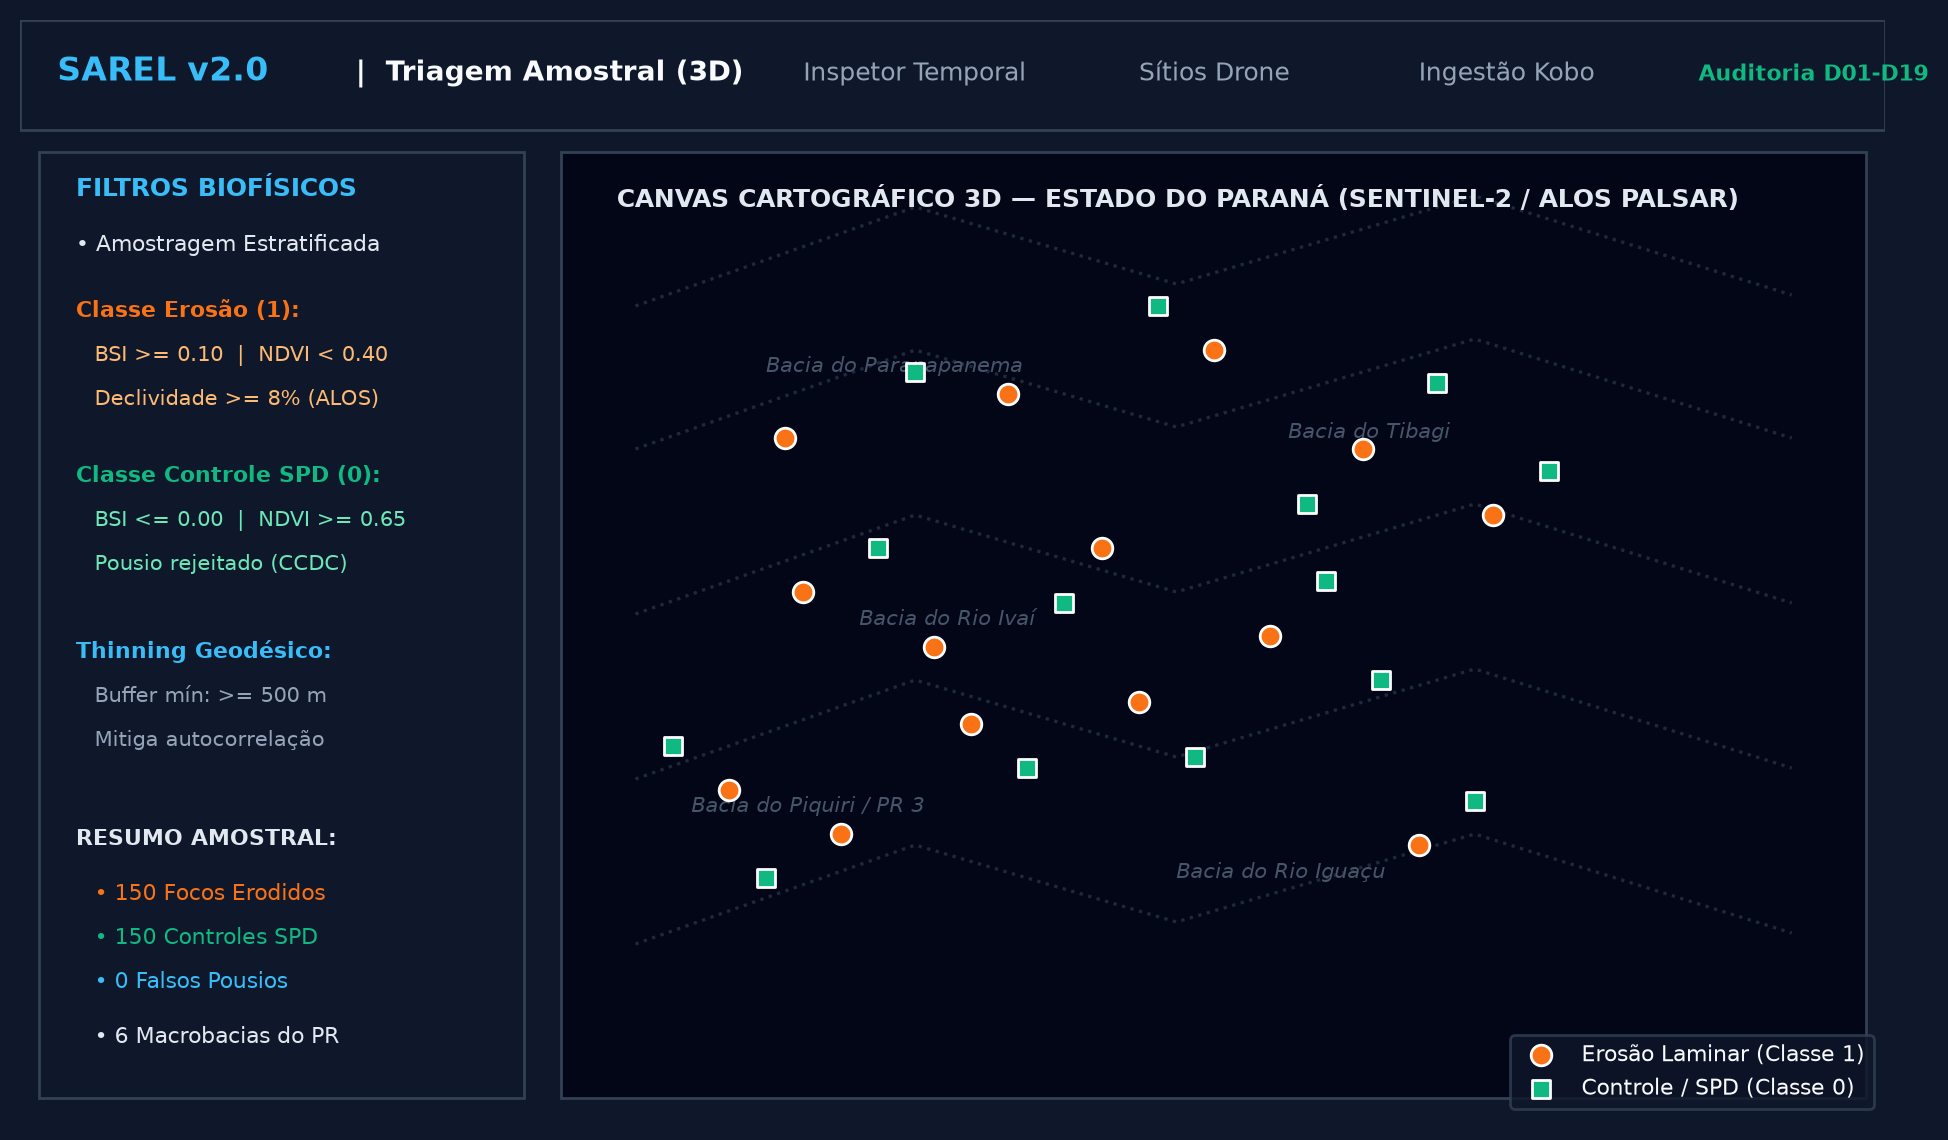
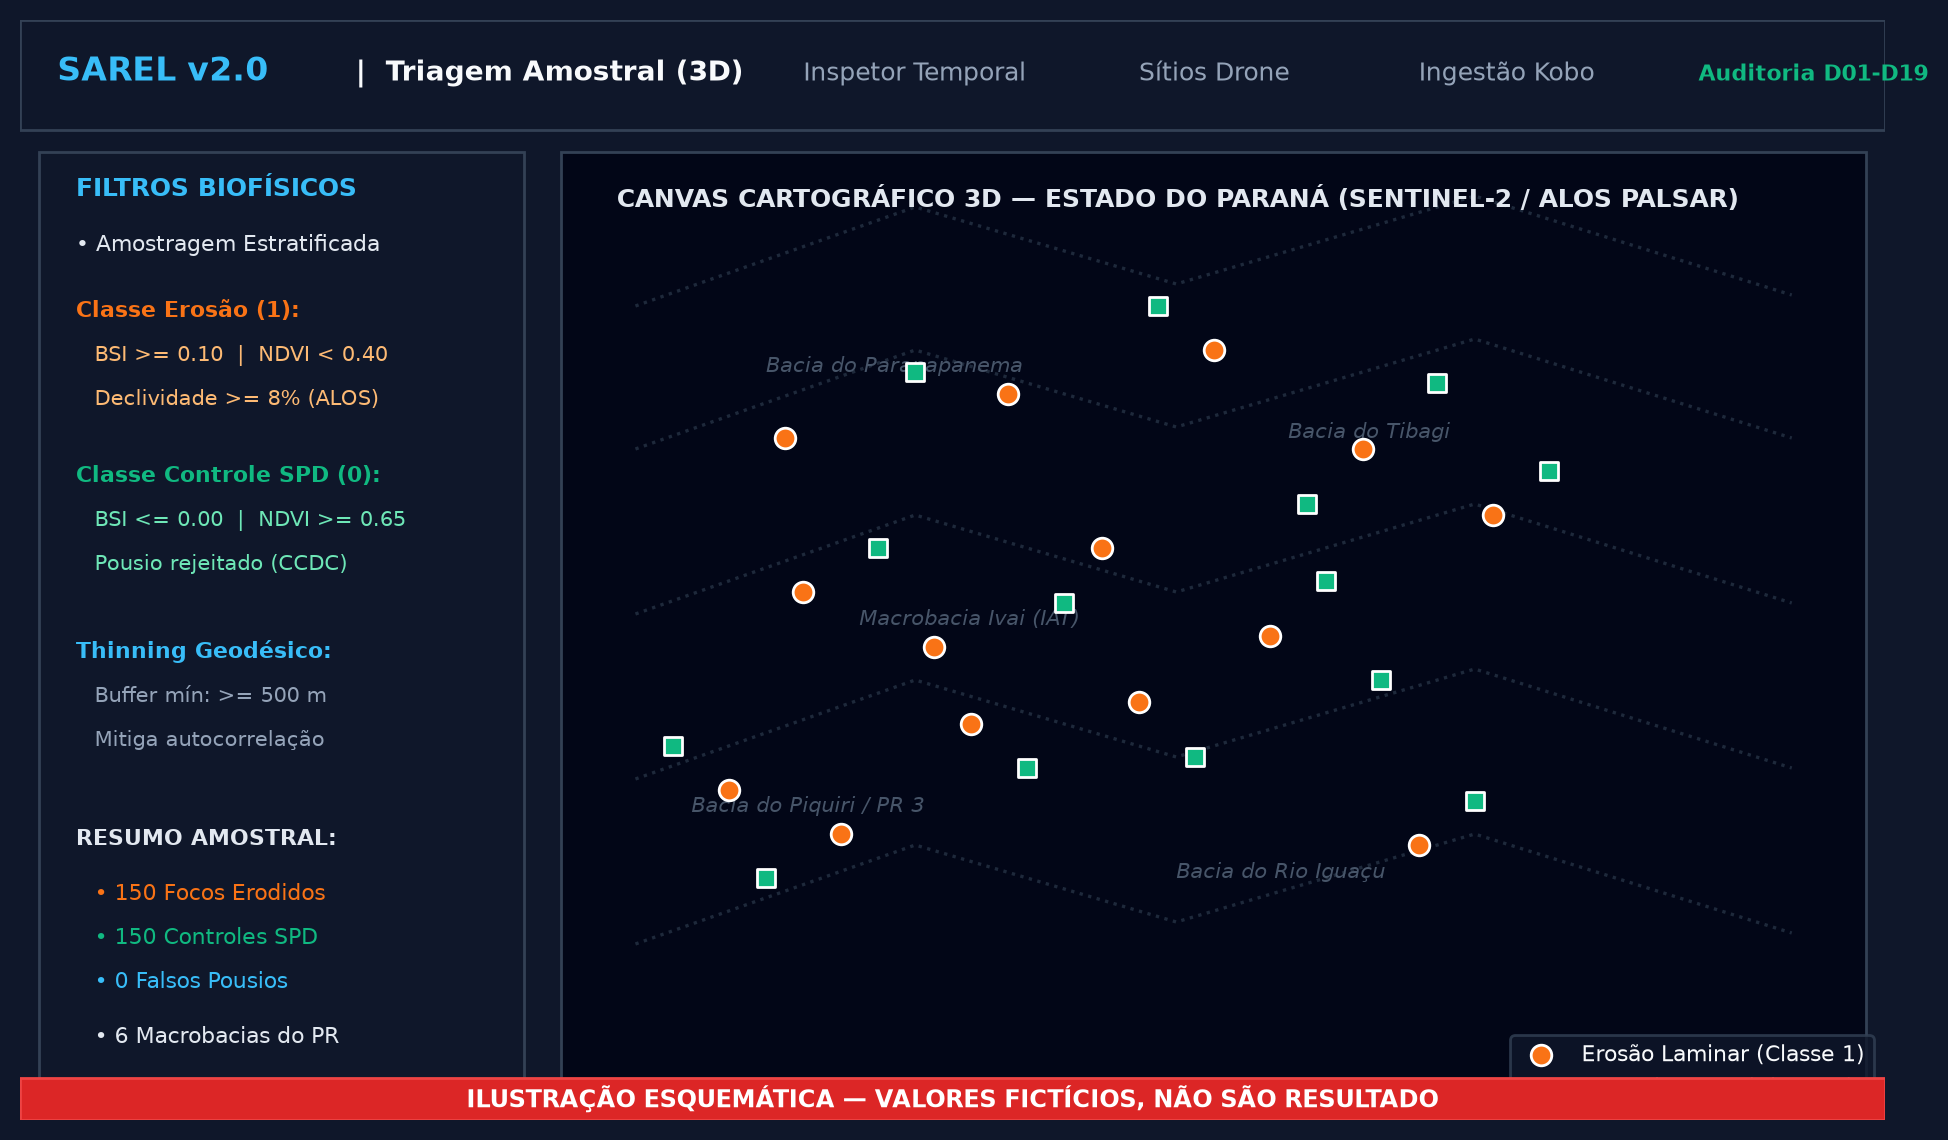
C17: selo de ilustracao ficticia nas 5 figuras do manual (PNG regerados)

Changed region(s): [[0.0, 0.9211, 0.9856, 0.9825], [0.4312, 0.5219, 0.5544, 0.5526]]

diff --git a/scripts/gerar_manual_pdf.py b/scripts/gerar_manual_pdf.py
@@ -64,6 +64,24 @@ plt.rcParams['font.sans-serif'] = 'DejaVu Sans'
 plt.rcParams['font.family'] = 'sans-serif'
 plt.rcParams['figure.dpi'] = 200
 
+TEXTO_FAIXA_FICTICIA = "ILUSTRAÇÃO ESQUEMÁTICA — VALORES FICTÍCIOS, NÃO SÃO RESULTADO"
+
+
+def adicionar_faixa_esquematica(ax):
+    """Insere faixa visível conspícua indicando ilustração esquemática com valores fictícios."""
+    faixa = patches.Rectangle((0, 0), 100, 3.8, facecolor='#DC2626', edgecolor='#EF4444', lw=1, zorder=100)
+    ax.add_patch(faixa)
+    ax.text(
+        50, 1.9,
+        TEXTO_FAIXA_FICTICIA,
+        color='#FFFFFF',
+        fontsize=8.5,
+        weight='bold',
+        ha='center',
+        va='center',
+        zorder=101,
+    )
+
 
 def criar_diagramas_telas(pasta_figuras: str) -> dict[str, str]:
     """Gera as 5 telas demonstrativas esquemáticas do sistema SAREL em alta resolução."""
@@ -140,6 +158,7 @@ def criar_diagramas_telas(pasta_figuras: str) -> dict[str, str]:
     ax.scatter(x_ctrl, y_ctrl, c='#10B981', marker='s', s=45, edgecolors='#FFFFFF', lw=1, zorder=5, label='Controle / SPD (Classe 0)')
 
     ax.legend(loc='lower right', facecolor='#0F172A', edgecolor='#334155', labelcolor='#F8FAFC', fontsize=8)
+    adicionar_faixa_esquematica(ax)
 
     caminho_t1 = os.path.join(pasta_figuras, "tela1_triagem_mapa3d.png")
     plt.tight_layout()
@@ -207,6 +226,8 @@ def criar_diagramas_telas(pasta_figuras: str) -> dict[str, str]:
     # Rótulos no eixo X
     for idx, ano in enumerate(['2016', '2017', '2018', '2019', '2020', '2021', '2022', '2023', '2024', '2025', '2026']):
         ax.text(8 + idx * 8.6, 8, ano, color='#64748B', fontsize=7, ha='center')
+
+    adicionar_faixa_esquematica(ax)
 
     caminho_t2 = os.path.join(pasta_figuras, "tela2_inspetor_temporal.png")
     plt.tight_layout()
@@ -278,6 +299,8 @@ def criar_diagramas_telas(pasta_figuras: str) -> dict[str, str]:
     ax.text(66, 18, "1. Mesma Macrobacia (IAT)\n2. Mesma Classe de Solo\n3. Declividade equivalente (±3%)\n4. Área contínua de 10 a 50 ha", color='#38BDF8', fontsize=6.8, weight='bold')
     ax.text(65, 8, "Rastreabilidade pericial preservada.", color='#10B981', fontsize=6.8, style='italic')
 
+    adicionar_faixa_esquematica(ax)
+
     caminho_t3 = os.path.join(pasta_figuras, "tela3_campanha_drone.png")
     plt.tight_layout()
     plt.savefig(caminho_t3, dpi=200, bbox_inches='tight')
@@ -335,6 +358,8 @@ def criar_diagramas_telas(pasta_figuras: str) -> dict[str, str]:
     ax.text(71, 37, "Perfil Modelador Espectral:", color='#34D399', fontsize=7, weight='bold')
     ax.text(71, 18, "Exporta bandas Sentinel-2,\ntrajetórias e preditores.\nOCULTA: Avaliação visual e\nnotas qualitativas de campo.", color='#CBD5E1', fontsize=6.3)
 
+    adicionar_faixa_esquematica(ax)
+
     caminho_t4 = os.path.join(pasta_figuras, "tela4_ingestao_kobo.png")
     plt.tight_layout()
     plt.savefig(caminho_t4, dpi=200, bbox_inches='tight')
@@ -361,25 +386,25 @@ def criar_diagramas_telas(pasta_figuras: str) -> dict[str, str]:
     ax.text(5, 80, "DESEMPENHO LOCO (K=5)", color='#38BDF8', fontsize=8, weight='bold')
     ax.text(5, 75, "Isolamento de bacias completas:", color='#94A3B8', fontsize=6.8)
 
-    # Métricas do modelo
-    ax.text(5, 68, "Acurácia Global: 89.3%", color='#10B981', fontsize=7.5, weight='bold')
-    ax.text(5, 63, "ROC-AUC Global: 0.924", color='#10B981', fontsize=7.5, weight='bold')
-    ax.text(5, 58, "F1-Score: 0.891", color='#10B981', fontsize=7.5, weight='bold')
-    ax.text(5, 53, "Precisão: 88.5%  |  Recall: 89.8%", color='#E2E8F0', fontsize=6.8)
+    # Métricas do modelo (esquemáticas / valores fictícios rotulados)
+    ax.text(5, 68, "Acurácia Global: [FICTÍCIO]", color='#F59E0B', fontsize=7.2, weight='bold')
+    ax.text(5, 63, "ROC-AUC Global: [FICTÍCIO]", color='#F59E0B', fontsize=7.2, weight='bold')
+    ax.text(5, 58, "F1-Score: [FICTÍCIO]", color='#F59E0B', fontsize=7.2, weight='bold')
+    ax.text(5, 53, "Precisão: [FICTÍCIO]  |  Recall: [FICTÍCIO]", color='#94A3B8', fontsize=6.5)
 
     # Mini Curva ROC
     rect_roc = patches.Rectangle((5, 12), 27, 36, facecolor='#0F172A', edgecolor='#334155', lw=1)
     ax.add_patch(rect_roc)
     ax.plot([7, 30], [14, 46], color='#64748B', linestyle='--', lw=1) # diagonal aleatória
     ax.plot([7, 9, 14, 20, 30], [14, 38, 43, 45, 46], color='#10B981', lw=2) # ROC do XGBoost
-    ax.text(7, 43, "Curva ROC (AUC=0.924)", color='#34D399', fontsize=6.5, weight='bold')
+    ax.text(7, 43, "Curva ROC (Esquemática Fictícia)", color='#34D399', fontsize=6.2, weight='bold')
     ax.text(7, 10, "1 - Especificidade vs Sensibilidade", color='#64748B', fontsize=5.8)
 
     # Painel Central: SHAP Feature Importance
     rect_m2 = patches.Rectangle((36, 6), 31, 79, facecolor='#020617', edgecolor='#334155', lw=1)
     ax.add_patch(rect_m2)
     ax.text(38, 80, "EXPLICABILIDADE SHAP", color='#F59E0B', fontsize=8, weight='bold')
-    ax.text(38, 75, "Impacto Médio Absoluto (|SHAP|):", color='#94A3B8', fontsize=6.8)
+    ax.text(38, 75, "Impacto Médio Absoluto (|SHAP|) [Fictício]:", color='#94A3B8', fontsize=6.8)
 
     features_shap = [
         ("bsi (Índice Solo Exposto)", 0.42, '#F97316'),
@@ -419,6 +444,8 @@ def criar_diagramas_telas(pasta_figuras: str) -> dict[str, str]:
         y_d = 67 - d_idx * 7.5
         ax.text(71, y_d + 2.5, d_nome, color='#E2E8F0', fontsize=6.3, weight='bold')
         ax.text(71, y_d, f"Status: {d_status}", color=d_cor, fontsize=5.8)
+
+    adicionar_faixa_esquematica(ax)
 
     caminho_t5 = os.path.join(pasta_figuras, "tela5_xgboost_decisoes.png")
     plt.tight_layout()
@@ -1264,6 +1291,13 @@ def main():
     print("SAREL - Sistema de Amostragem e Rotulagem para Erosão Laminar")
     print("PPGTCA / UTFPR Campus Medianeira — 2026")
     print("================================================================================")
+
+    import sys
+    if '--apenas-figuras' in sys.argv:
+        print(f"[FIGURAS] Gerando apenas os 5 PNGs esquemáticos em '{DIRETORIO_FIGURAS}'...")
+        criar_diagramas_telas(DIRETORIO_FIGURAS)
+        print("[SUCESSO] Figuras esquemáticas regeradas com selo. PDF do manual NÃO regerado.")
+        return
 
     construir_manual_pdf(CAMINHO_PDF_FINAL)
 

diff --git a/scripts/verificacao/test_selo_figuras_manual_c17.py b/scripts/verificacao/test_selo_figuras_manual_c17.py
@@ -1,0 +1,66 @@
+#!/usr/bin/env python
+# -*- coding: utf-8 -*-
+"""
+Teste de Verificação C17 — Selo Fictício nas Figuras Esquemáticas do Manual
+Garante que todas as 5 figuras esquemáticas geradas em scripts/gerar_manual_pdf.py
+contenham a faixa visível 'ILUSTRAÇÃO ESQUEMÁTICA — VALORES FICTÍCIOS, NÃO SÃO RESULTADO'
+e que a tela5 não contenha métricas de desempenho numéricas sem rotulação fictícia.
+"""
+
+import os
+import re
+import unittest
+from pathlib import Path
+
+RAIZ_REPOSITORIO = Path(__file__).resolve().parents[2]
+CAMINHO_GERADOR = RAIZ_REPOSITORIO / "scripts" / "gerar_manual_pdf.py"
+
+TEXTO_SELO_ESPERADO = "ILUSTRAÇÃO ESQUEMÁTICA — VALORES FICTÍCIOS, NÃO SÃO RESULTADO"
+
+
+class TestSeloFigurasManualC17(unittest.TestCase):
+    def setUp(self):
+        self.assertTrue(CAMINHO_GERADOR.exists(), f"Gerador não encontrado: {CAMINHO_GERADOR}")
+        with open(CAMINHO_GERADOR, "r", encoding="utf-8") as f:
+            self.conteudo = f.read()
+
+    def test_todas_as_cinco_telas_desenham_selo(self):
+        """Verifica que as 5 seções de telas (tela1..5) aplicam o selo esquemático."""
+        # Localiza o bloco da função criar_diagramas_telas
+        match_func = re.search(r"def criar_diagramas_telas\(.*?\).*?:.*?(?=\ndef [a-zA-Z0-9_]+|\nclass |\Z)", self.conteudo, re.DOTALL)
+        self.assertIsNotNone(match_func, "Função criar_diagramas_telas não encontrada")
+        corpo_func = match_func.group(0)
+
+        # O texto do selo deve aparecer no gerador
+        self.assertIn(TEXTO_SELO_ESPERADO, self.conteudo)
+
+        for tela_idx in range(1, 6):
+            # Procura pela geração de cada tela
+            padrao_tela = rf"# TELA {tela_idx}:.*?(?=plt\.savefig\(caminho_t{tela_idx})"
+            match_tela = re.search(padrao_tela, corpo_func, re.DOTALL)
+            self.assertIsNotNone(match_tela, f"Bloco da TELA {tela_idx} não encontrado")
+            bloco_tela = match_tela.group(0)
+            self.assertTrue(
+                TEXTO_SELO_ESPERADO in bloco_tela or "adicionar_faixa_esquematica" in bloco_tela or "desenhar_faixa_ficticia" in bloco_tela or "FAIXA_FICTICIA" in bloco_tela,
+                f"TELA {tela_idx} não inclui o selo de ilustração fictícia"
+            )
+
+    def test_tela5_sem_metricas_reais_inventadas(self):
+        """Na tela5, números de desempenho (AUC 0.924, 89.3%) não devem aparecer como se fossem reais."""
+        match_func = re.search(r"def criar_diagramas_telas\(.*?\).*?:.*?(?=\ndef [a-zA-Z0-9_]+|\nclass |\Z)", self.conteudo, re.DOTALL)
+        self.assertIsNotNone(match_func, "Função criar_diagramas_telas não encontrada")
+        corpo_func = match_func.group(0)
+
+        match_t5 = re.search(r"# TELA 5:.*?(?=plt\.savefig\(caminho_t5)", corpo_func, re.DOTALL)
+        self.assertIsNotNone(match_t5, "Bloco da TELA 5 não encontrado")
+        bloco_t5 = match_t5.group(0)
+
+        # Não deve afirmar Acurácia Global: 89.3% nem ROC-AUC Global: 0.924
+        self.assertNotIn("Acurácia Global: 89.3%", bloco_t5)
+        self.assertNotIn("ROC-AUC Global: 0.924", bloco_t5)
+        self.assertNotIn("F1-Score: 0.891", bloco_t5)
+        self.assertNotIn("Curva ROC (AUC=0.924)", bloco_t5)
+
+
+if __name__ == "__main__":
+    unittest.main()
